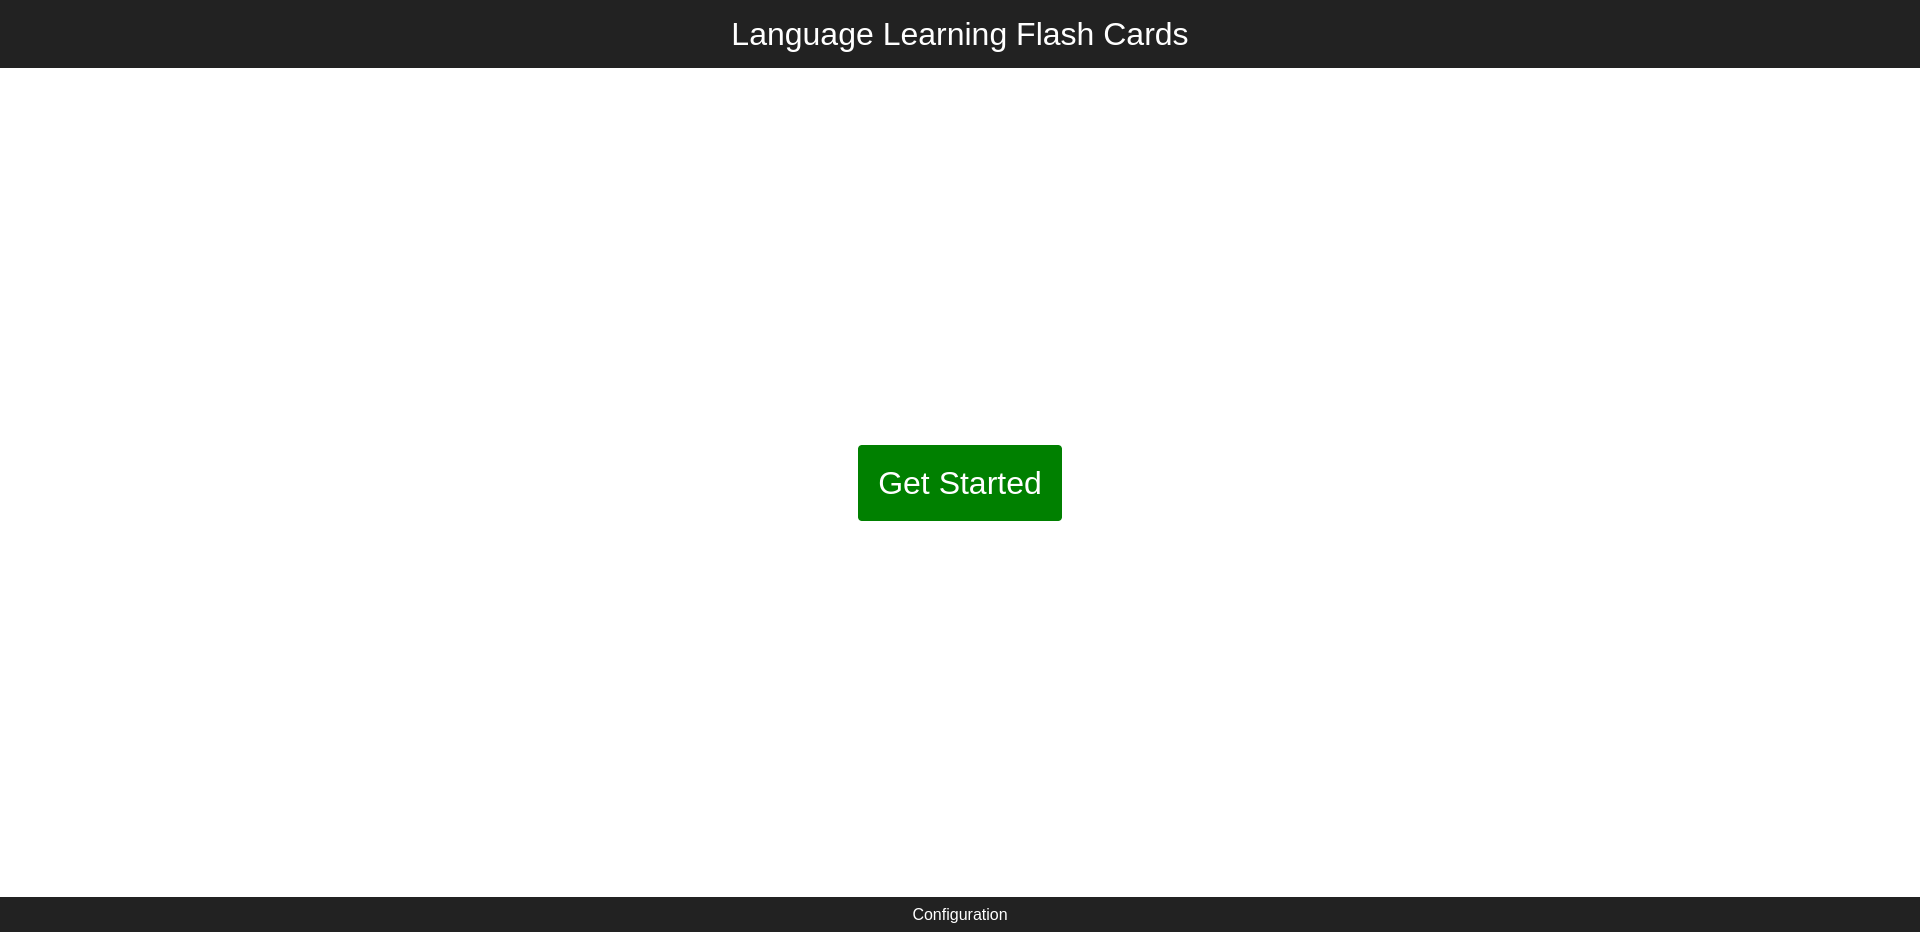
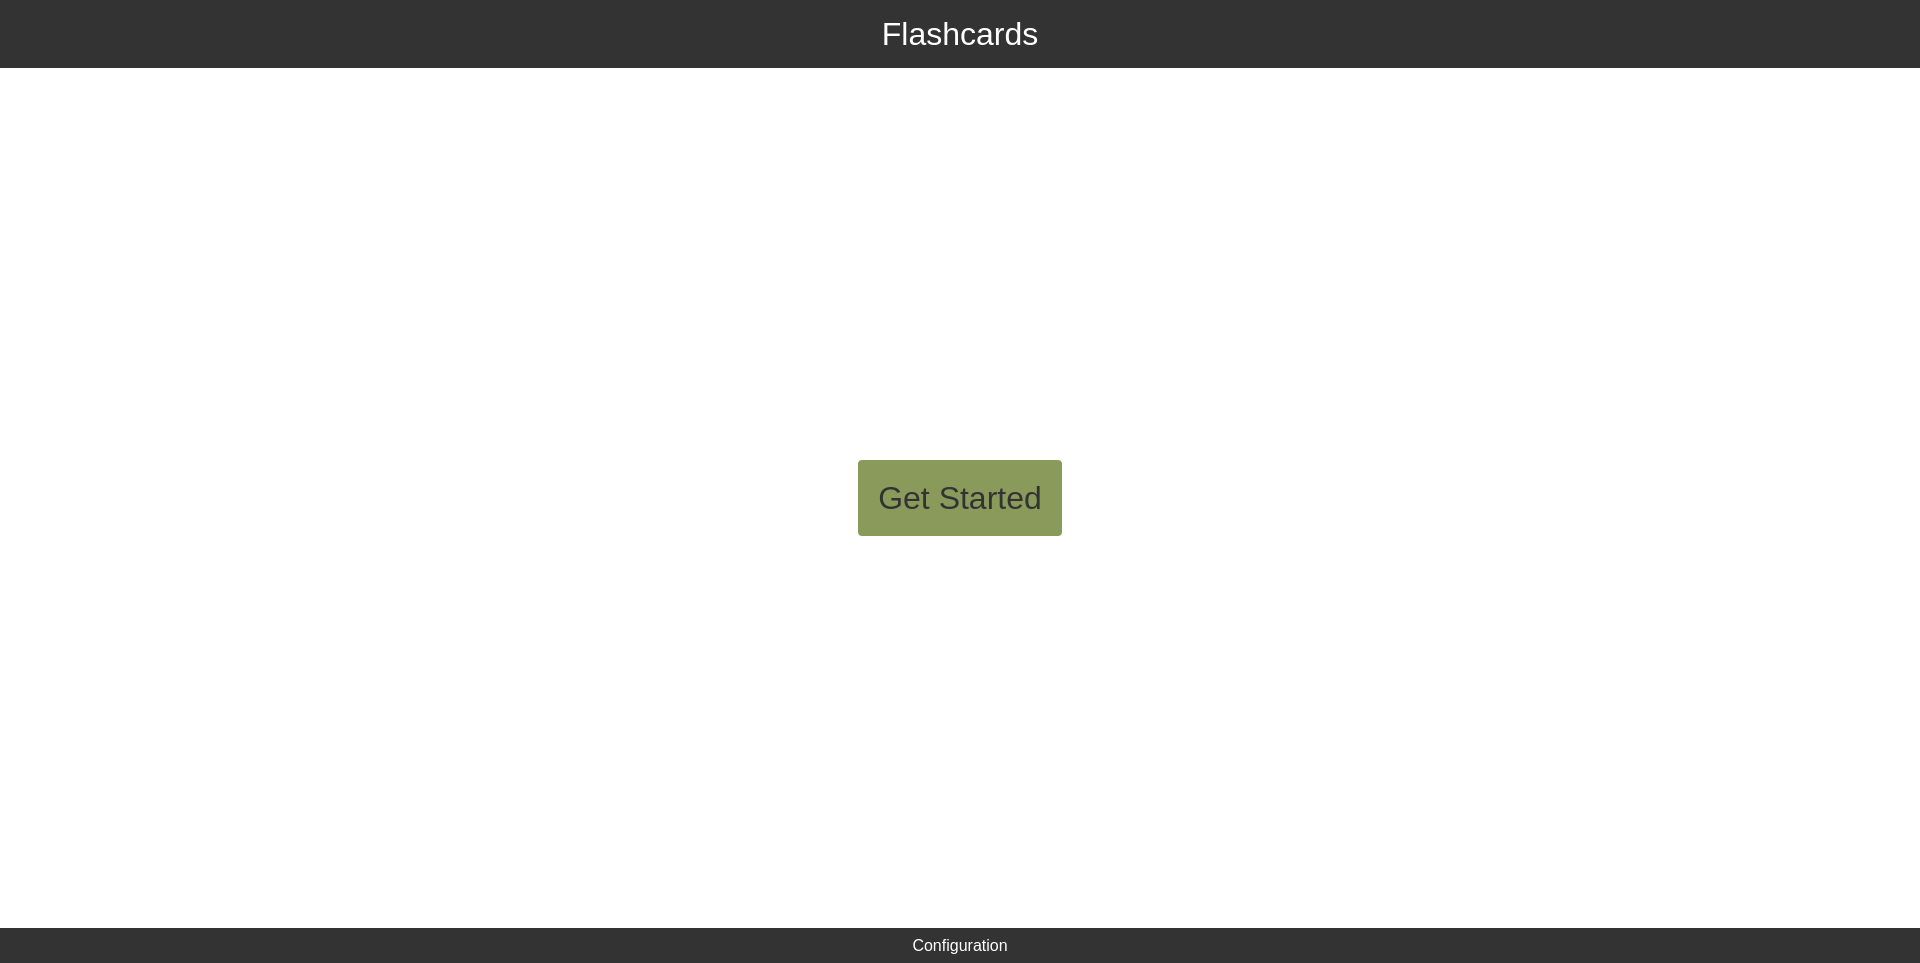
Updated images and text for flashcards project

Changed region(s): [[0.0, 0.0311, 1.0, 0.0933], [0.4375, 0.4667, 0.5625, 0.5601], [0.4688, 0.9646, 0.5, 0.9957]]

diff --git a/project/source/projects/flashcards/index.html b/project/source/projects/flashcards/index.html
@@ -3,7 +3,7 @@
 {% block main %}
     <section class="about">
         <h2>Language Learning Flashcards</h2>
-        <p>A Python Django-based web-application for language learning flashcards in the browser. This is a personal project I built to aid in both my language and programming study. The interface is simple, presenting the English word first, then the non-English translation upon demand. The Django admin is used to add new words and topics. Words can be filtered by a combination of topics and categories.</p>
+        <p>A Python Django-based web-application for language learning flashcards in the browser. This is a personal project I built to aid in both my foreign language and programming study. The interface is simple, presenting the English word first, then the non-English translation upon demand. The Django admin is used to add new words and topics. Words can be filtered by a combination of topics and categories.</p>
         <h4>My Role</h4>
         <p>Developer, Maintainer</p>
         <h4>Technology</h4>
@@ -21,19 +21,19 @@
                 </div>
             </div>
             <div class="slideShowContent">
-                <div class="slideShowCaption">English word first</div>
+                <div class="slideShowCaption">Prompt first</div>
                 <div class="slideShowImgContainer">
-                    <img src="{% path static/img/flashcards/en.png %}" alt="english word">
+                    <img src="{% path static/img/flashcards/prompt.png %}" alt="english word">
                 </div>
             </div>
             <div class="slideShowContent">
-                <div class="slideShowCaption">Request the translation on demand</div>
+                <div class="slideShowCaption">Flip the card over</div>
                 <div class="slideShowImgContainer">
-                    <img src="{% path static/img/flashcards/jp.png %}" alt="translation">
+                    <img src="{% path static/img/flashcards/answer.png %}" alt="translation">
                 </div>
             </div>
             <div class="slideShowContent">
-                <div class="slideShowCaption">Words can be filtered by topic and category</div>
+                <div class="slideShowCaption">Cards can be filtered by topic and category</div>
                 <div class="slideShowImgContainer">
                     <img src="{% path static/img/flashcards/filters.png %}" alt="filters">
                 </div>

diff --git a/portfolio/projects/flashcards/index.html b/portfolio/projects/flashcards/index.html
@@ -49,19 +49,19 @@
                 </div>
             </div>
             <div class="slideShowContent">
-                <div class="slideShowCaption">English word first</div>
+                <div class="slideShowCaption">Prompt first</div>
                 <div class="slideShowImgContainer">
-                    <img src="../../static/img/flashcards/en.png" alt="english word">
+                    <img src="../../static/img/flashcards/prompt.png" alt="english word">
                 </div>
             </div>
             <div class="slideShowContent">
-                <div class="slideShowCaption">Request the translation on demand</div>
+                <div class="slideShowCaption">Flip the card over</div>
                 <div class="slideShowImgContainer">
-                    <img src="../../static/img/flashcards/jp.png" alt="translation">
+                    <img src="../../static/img/flashcards/answer.png" alt="translation">
                 </div>
             </div>
             <div class="slideShowContent">
-                <div class="slideShowCaption">Words can be filtered by topic and category</div>
+                <div class="slideShowCaption">Cards can be filtered by topic and category</div>
                 <div class="slideShowImgContainer">
                     <img src="../../static/img/flashcards/filters.png" alt="filters">
                 </div>

diff --git a/project/source/index.html b/project/source/index.html
@@ -163,7 +163,7 @@
 
                 <article id="flashcards" class="project">
                     <a href="{% path projects/flashcards/index.html %}">
-                        <h3>Language Flash Cards</h3>
+                        <h3>Flashcards</h3>
                     </a>
                 </article>
 

diff --git a/portfolio/index.html b/portfolio/index.html
@@ -174,7 +174,7 @@
 
                 <article id="flashcards" class="project">
                     <a href="projects/flashcards/index.html">
-                        <h3>Language Flash Cards</h3>
+                        <h3>Flashcards</h3>
                     </a>
                 </article>
 
